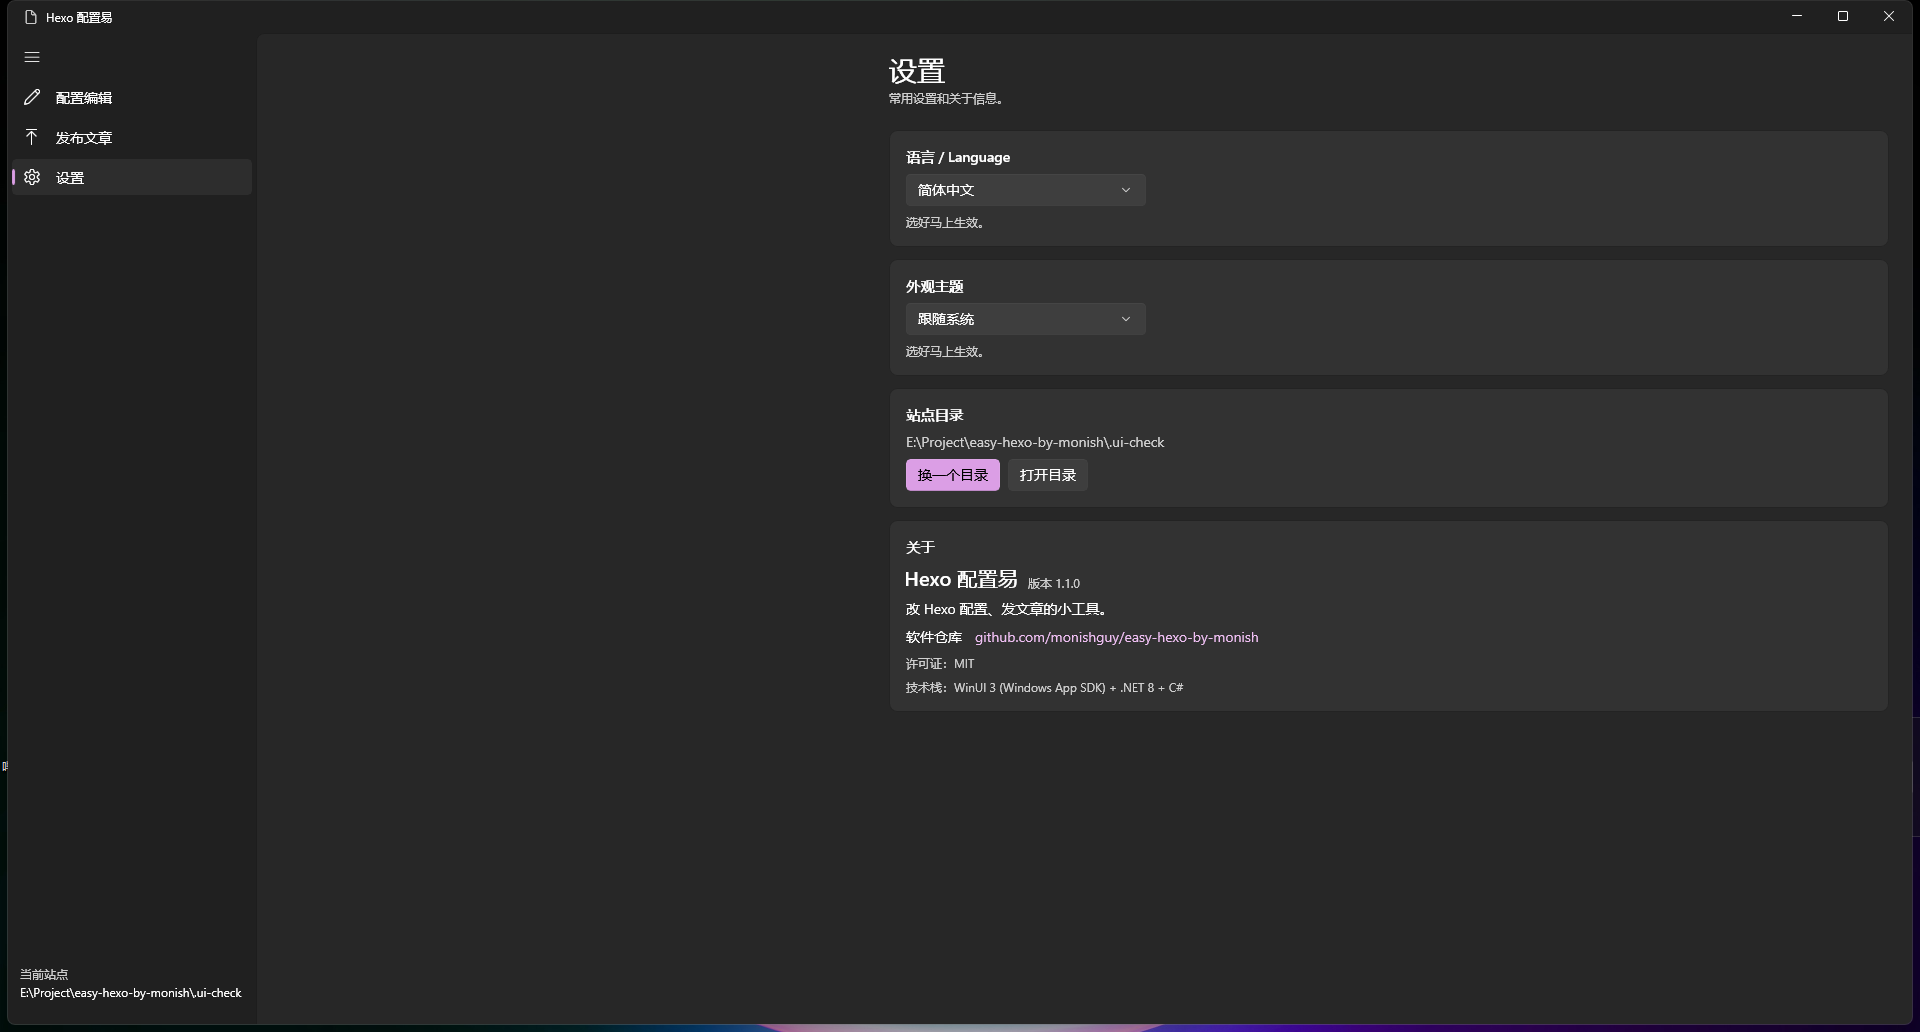
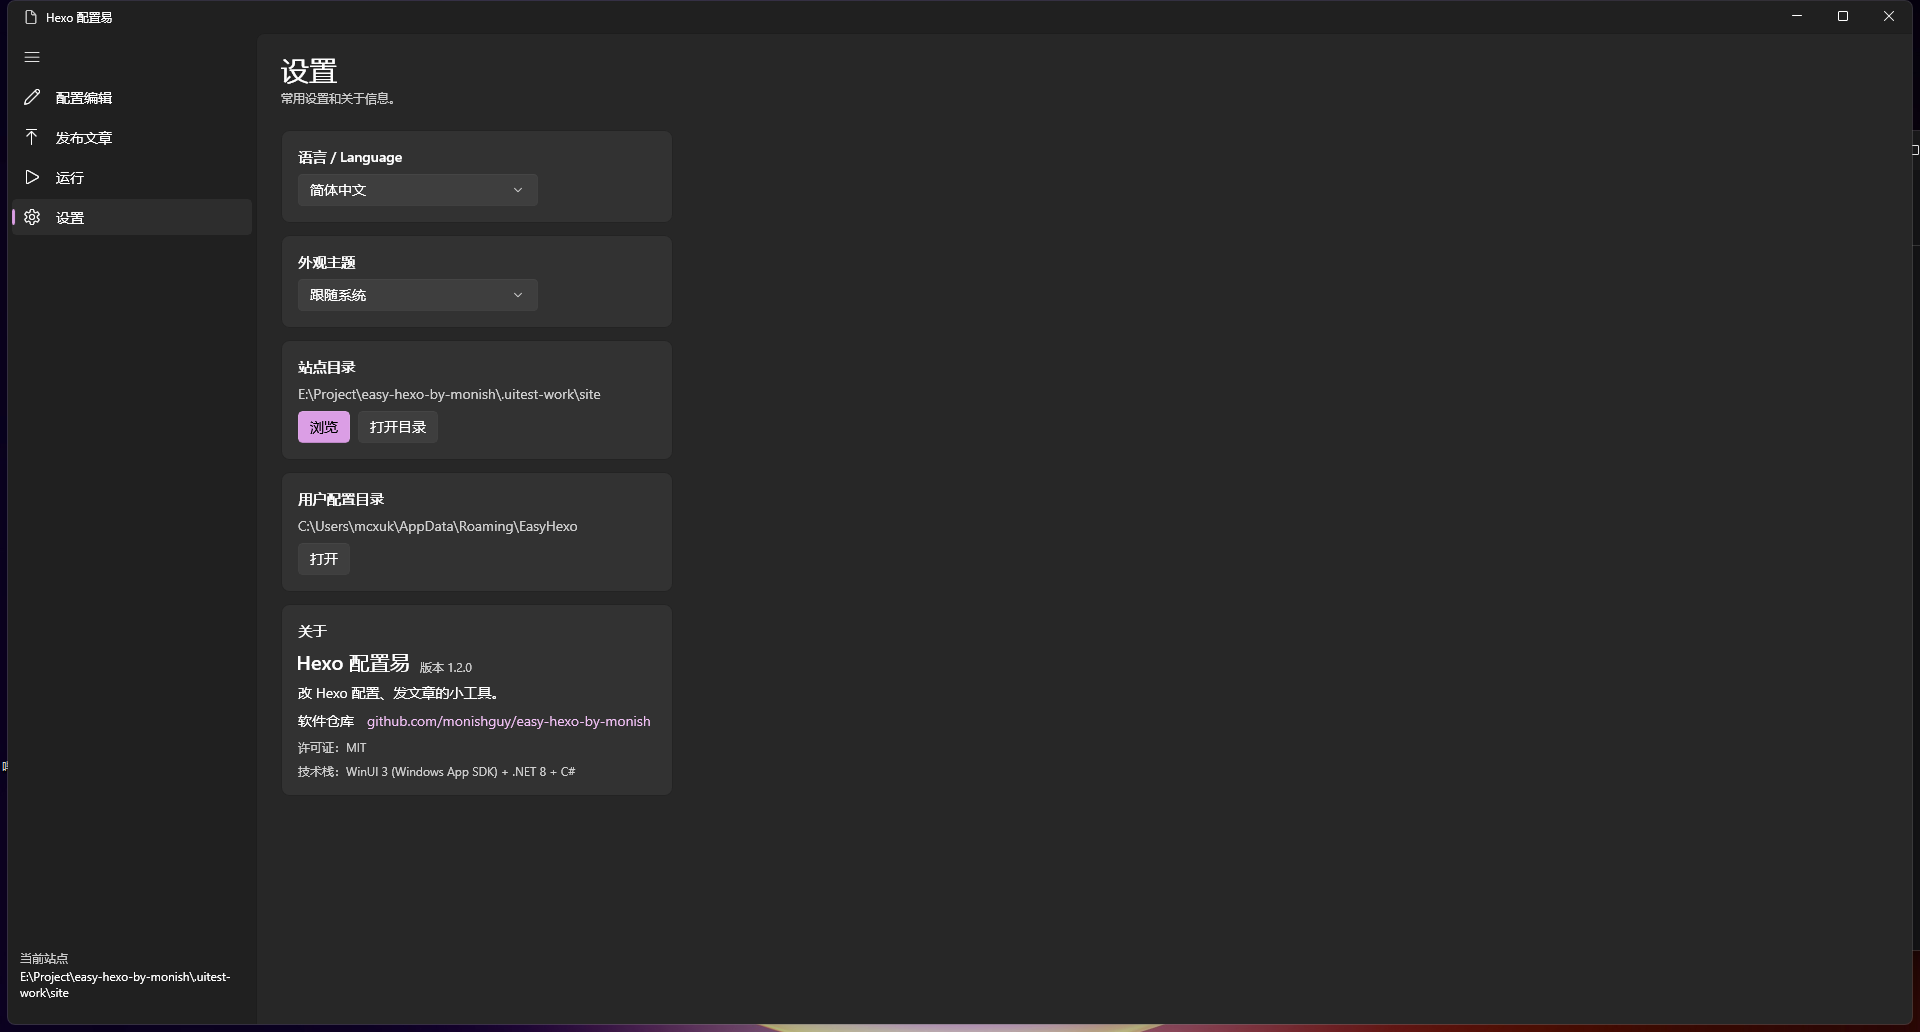
fix: 用户配置目录固定到 APPDATA 并修复设置页对齐与文案

diff --git a/EasyHexo/Views/SettingsPage.xaml b/EasyHexo/Views/SettingsPage.xaml
@@ -5,8 +5,8 @@
     xmlns:x="http://schemas.microsoft.com/winfx/2006/xaml"
     xmlns:l="using:EasyHexo.Localization">
 
-    <ScrollViewer VerticalScrollBarVisibility="Auto">
-        <StackPanel Margin="24,16,24,24" Spacing="12" MaxWidth="1000" HorizontalAlignment="Stretch">
+    <ScrollViewer VerticalScrollBarVisibility="Auto" HorizontalContentAlignment="Left">
+        <StackPanel Margin="24,16,24,24" Spacing="12" MaxWidth="1000" HorizontalAlignment="Left">
 
             <StackPanel Spacing="2">
                 <TextBlock
@@ -36,11 +36,6 @@
                         <ComboBoxItem Content="简体中文" Tag="zh-CN" />
                         <ComboBoxItem Content="English" Tag="en-US" />
                     </ComboBox>
-                    <TextBlock
-                        Style="{StaticResource CaptionTextBlockStyle}"
-                        Foreground="{ThemeResource TextFillColorSecondaryBrush}"
-                        TextWrapping="Wrap"
-                        l:Trans.Text="settings.languageHint" />
                 </StackPanel>
             </Border>
 
@@ -60,11 +55,6 @@
                         <ComboBoxItem Tag="light" l:Trans.Content="settings.themeLight" />
                         <ComboBoxItem Tag="dark" l:Trans.Content="settings.themeDark" />
                     </ComboBox>
-                    <TextBlock
-                        Style="{StaticResource CaptionTextBlockStyle}"
-                        Foreground="{ThemeResource TextFillColorSecondaryBrush}"
-                        TextWrapping="Wrap"
-                        l:Trans.Text="settings.themeHint" />
                 </StackPanel>
             </Border>
 
@@ -87,6 +77,22 @@
                             l:Trans.Content="settings.changeRoot" />
                         <Button Click="OnOpenRootClick" l:Trans.Content="settings.openFolder" />
                     </StackPanel>
+                </StackPanel>
+            </Border>
+
+            <!-- 用户配置目录（不在软件目录，升级 / 重启后保留） -->
+            <Border Style="{StaticResource CardBorderStyle}">
+                <StackPanel Spacing="8">
+                    <TextBlock
+                        Style="{StaticResource BodyStrongTextBlockStyle}"
+                        l:Trans.Text="settings.configDir" />
+                    <TextBlock
+                        x:Name="ConfigDirText"
+                        TextWrapping="Wrap"
+                        IsTextSelectionEnabled="True"
+                        AutomationProperties.AutomationId="ConfigDirText"
+                        Foreground="{ThemeResource TextFillColorSecondaryBrush}" />
+                    <Button Click="OnOpenConfigDirClick" l:Trans.Content="settings.openConfigDir" />
                 </StackPanel>
             </Border>
 

diff --git a/EasyHexo/Services/AppPaths.cs b/EasyHexo/Services/AppPaths.cs
@@ -2,12 +2,17 @@ using System.Text.Json;
 
 namespace EasyHexo.Services;
 
-/// <summary>应用本机的可写目录（设置、日志）。</summary>
+/// <summary>
+/// 用户数据目录（设置、日志），固定在 %APPDATA%\EasyHexo，不在软件目录里。
+/// 这样替换 / 升级软件目录后，上次的 Hexo 站点仍会自动恢复。
+/// </summary>
 public static class AppPaths
 {
+    private const string AppFolderName = "EasyHexo";
+
     public static string AppDataDir => Path.Combine(
-        Environment.GetFolderPath(Environment.SpecialFolder.LocalApplicationData),
-        "EasyHexo");
+        Environment.GetFolderPath(Environment.SpecialFolder.ApplicationData),
+        AppFolderName);
 
     public static string SettingsFile => Path.Combine(AppDataDir, "settings.json");
 
@@ -15,9 +20,50 @@ public static class AppPaths
 
     public static string LogFile => Path.Combine(LogDir, "easyhexo.log");
 
+    /// <summary>旧版本使用的 %LOCALAPPDATA%\EasyHexo（仅用于迁移）。</summary>
+    private static string LegacyLocalDir => Path.Combine(
+        Environment.GetFolderPath(Environment.SpecialFolder.LocalApplicationData),
+        AppFolderName);
+
     public static void EnsureAppDataDir() => Directory.CreateDirectory(AppDataDir);
 
     public static void EnsureLogDir() => Directory.CreateDirectory(LogDir);
+
+    /// <summary>
+    /// 首次使用新版本时，把旧位置（%LOCALAPPDATA% 或软件目录）里的 settings.json
+    /// 迁移到 %APPDATA%\EasyHexo，避免升级后丢失上次选择的 Hexo 目录。
+    /// </summary>
+    public static void MigrateLegacySettings()
+    {
+        try
+        {
+            if (File.Exists(SettingsFile))
+            {
+                return;
+            }
+
+            EnsureAppDataDir();
+
+            var candidates = new[]
+            {
+                Path.Combine(LegacyLocalDir, "settings.json"),
+                Path.Combine(AppContext.BaseDirectory, "settings.json"),
+            };
+
+            foreach (var candidate in candidates)
+            {
+                if (File.Exists(candidate))
+                {
+                    File.Copy(candidate, SettingsFile, overwrite: false);
+                    return;
+                }
+            }
+        }
+        catch (Exception ex)
+        {
+            AppLog.Write("迁移旧设置失败", ex);
+        }
+    }
 }
 
 /// <summary>极简文件日志：出现未处理异常或读写失败时写一行，便于排查。</summary>
@@ -47,7 +93,7 @@ public static class AppLog
         Write($"{message}: {exception.GetType().Name}: {exception.Message}{Environment.NewLine}{exception.StackTrace}");
 }
 
-/// <summary>用户设置（保存在 %LOCALAPPDATA%\EasyHexo\settings.json）。</summary>
+/// <summary>用户设置（保存在 %APPDATA%\EasyHexo\settings.json，不在软件目录）。</summary>
 public sealed class AppSettings
 {
     /// <summary>上次选择的 Hexo 根目录。</summary>

diff --git a/EasyHexo/Localization/StringsZhCn.cs b/EasyHexo/Localization/StringsZhCn.cs
@@ -219,16 +219,16 @@ internal static class StringsZhCn
         ["settings.title"] = "设置",
         ["settings.subtitle"] = "常用设置和关于信息。",
         ["settings.language"] = "语言 / Language",
-        ["settings.languageHint"] = "选好马上生效。",
         ["settings.languageChanged"] = "界面语言已切换。",
         ["settings.theme"] = "外观主题",
-        ["settings.themeHint"] = "选好马上生效。",
         ["settings.themeSystem"] = "跟随系统",
         ["settings.themeLight"] = "浅色",
         ["settings.themeDark"] = "深色",
         ["settings.themeChanged"] = "外观主题已切换。",
+        ["settings.configDir"] = "用户配置目录",
+        ["settings.openConfigDir"] = "打开",
         ["settings.root"] = "站点目录",
-        ["settings.changeRoot"] = "换一个目录",
+        ["settings.changeRoot"] = "浏览",
         ["settings.rootChanged"] = "已切换站点目录。",
         ["settings.openFolder"] = "打开目录",
         ["settings.about"] = "关于",

diff --git a/EasyHexo/Localization/StringsEnUs.cs b/EasyHexo/Localization/StringsEnUs.cs
@@ -216,16 +216,16 @@ internal static class StringsEnUs
         ["settings.title"] = "Settings",
         ["settings.subtitle"] = "Common settings and about.",
         ["settings.language"] = "Language / 语言",
-        ["settings.languageHint"] = "Applies right away.",
         ["settings.languageChanged"] = "Interface language switched.",
         ["settings.theme"] = "Appearance theme",
-        ["settings.themeHint"] = "Applies right away.",
         ["settings.themeSystem"] = "Follow system",
         ["settings.themeLight"] = "Light",
         ["settings.themeDark"] = "Dark",
         ["settings.themeChanged"] = "Appearance theme switched.",
+        ["settings.configDir"] = "User config folder",
+        ["settings.openConfigDir"] = "Open",
         ["settings.root"] = "Site folder",
-        ["settings.changeRoot"] = "Change folder",
+        ["settings.changeRoot"] = "Browse",
         ["settings.rootChanged"] = "Site folder changed.",
         ["settings.openFolder"] = "Open folder",
         ["settings.about"] = "About",

diff --git a/EasyHexo/Views/SettingsPage.xaml.cs b/EasyHexo/Views/SettingsPage.xaml.cs
@@ -48,6 +48,7 @@ public sealed partial class SettingsPage : Page
         }
 
         RootPathText.Text = AppState.Current.Project?.RootPath ?? Lang.T("root.none");
+        ConfigDirText.Text = AppPaths.AppDataDir;
 
         var version = typeof(App).Assembly.GetName().Version;
         VersionText.Text = Lang.T("settings.version", version is null ? "1.0" : version.ToString(3));
@@ -98,6 +99,20 @@ public sealed partial class SettingsPage : Page
 
         ApplyLocalization();
         ShowMessage(InfoBarSeverity.Success, Lang.T("settings.rootChanged"));
+    }
+
+    private void OnOpenConfigDirClick(object sender, RoutedEventArgs e)
+    {
+        try
+        {
+            Directory.CreateDirectory(AppPaths.AppDataDir);
+        }
+        catch (Exception ex)
+        {
+            AppLog.Write("创建用户配置目录失败", ex);
+        }
+
+        ShellHelper.OpenFolder(AppPaths.AppDataDir);
     }
 
     private void OnOpenRootClick(object sender, RoutedEventArgs e)

diff --git a/EasyHexo/Services/AppState.cs b/EasyHexo/Services/AppState.cs
@@ -32,8 +32,15 @@ public sealed class AppState
     /// <summary>启动时调用一次：读取设置、套用语言、恢复上次的根目录。</summary>
     public void Initialize()
     {
+        // 设置固定在 %APPDATA%\EasyHexo（不在软件目录），升级 / 重启后仍能恢复上次站点
+        AppPaths.MigrateLegacySettings();
         Settings = SettingsService.Load();
         Lang.SetLanguage(Settings.Language);
+
+        if (!File.Exists(AppPaths.SettingsFile))
+        {
+            SaveSettings();
+        }
 
         if (!string.IsNullOrWhiteSpace(Settings.HexoRoot) &&
             HexoProject.TryCreate(Settings.HexoRoot, out var project, out _))

diff --git a/README.md b/README.md
@@ -4,7 +4,7 @@
 
 > 仓库地址：<https://github.com/monishguy/easy-hexo-by-monish>
 > 许可证：MIT（见仓库根目录 [LICENSE](LICENSE)）　|　技术栈：**C# + WinUI 3（Windows App SDK 1.7）+ .NET 8**
-> 当前版本：**1.2.0**（1.2.0：新增“运行”页执行 Hexo 命令并实时显示输出；配置页改为顶部基本信息 + 下方分区；修复展开/收起后跳回顶部）
+> 当前版本：**1.2.1**（1.2.1：用户配置目录固定到 `%APPDATA%\EasyHexo`，替换软件目录也不丢站点、首次启动自动迁移旧设置；设置页左对齐并精简描述、站点目录按钮改为“浏览”，新增“用户配置目录”入口）
 
 ![配置编辑](docs/screenshots/config-editor.png)
 
@@ -12,7 +12,7 @@
 
 | 发布文章 | 设置（浅色主题） |
 | --- | --- |
-| ![发布文章](docs/screenshots/publish.png) | ![设置](docs/screenshots/settings-light.png) |
+| ![发布文章](docs/screenshots/publish.png) | ![设置](docs/screenshots/settings.png) |
 
 ---
 
@@ -99,6 +99,8 @@ ewfavicon.png`，配置写为 `favicon: /newfavicon.png`；
 - 拖入/浏览导入 `.md` 后出现在“待发布”列表；修改标题后切到别的文章再切回，草稿内容正确恢复；
 - 配置列表滚动后展开/收起分组，滚动位置保持不变（不再跳回顶部）；顶部“基本信息”布局与站点图标预览正常，改值后高亮、可撤回；
 - “运行”页执行命令时显示进度圈，输出实时出现在框内，结束后显示退出码，可停止；
+- 用户配置目录固定在 `%APPDATA%\EasyHexo`：旧版设置自动迁移、首次启动自动创建，重启后自动打开上次站点；
+- 设置页内容左对齐（非最小宽度时不再整体右偏），语言 / 主题无多余描述，站点目录按钮为“浏览”，并显示用户配置目录路径；
 - 窗口最小尺寸生效（1040×680），侧栏收起时隐藏根目录、展开后显示；
 - 浅色 / 深色 / 跟随系统三种主题即时生效；
 - 中英文切换、简体中文键名翻译、窗口缩放布局均正常。
@@ -234,8 +236,8 @@ docs/screenshots/              # README 截图
 
 | 内容 | 位置 |
 | --- | --- |
-| 设置（根目录、语言、主题、资源分组勾选记忆） | `%LOCALAPPDATA%\EasyHexo\settings.json` |
-| 错误日志 | `%LOCALAPPDATA%\EasyHexo\logs\easyhexo.log` |
+| 设置（根目录、语言、主题、资源分组勾选记忆） | `%APPDATA%\EasyHexo\settings.json`（**不在软件目录**，升级 / 重启后自动恢复上次站点；旧版 `%LOCALAPPDATA%` 的配置首次启动会自动迁移） |
+| 错误日志 | `%APPDATA%\EasyHexo\logs\easyhexo.log` |
 | 拖入 `.txt` 的临时 md | `%TEMP%\EasyHexo\<时间戳>\` |
 | 配置文件备份 | `<配置所在目录>\*.easyhexo.bak` |
 
